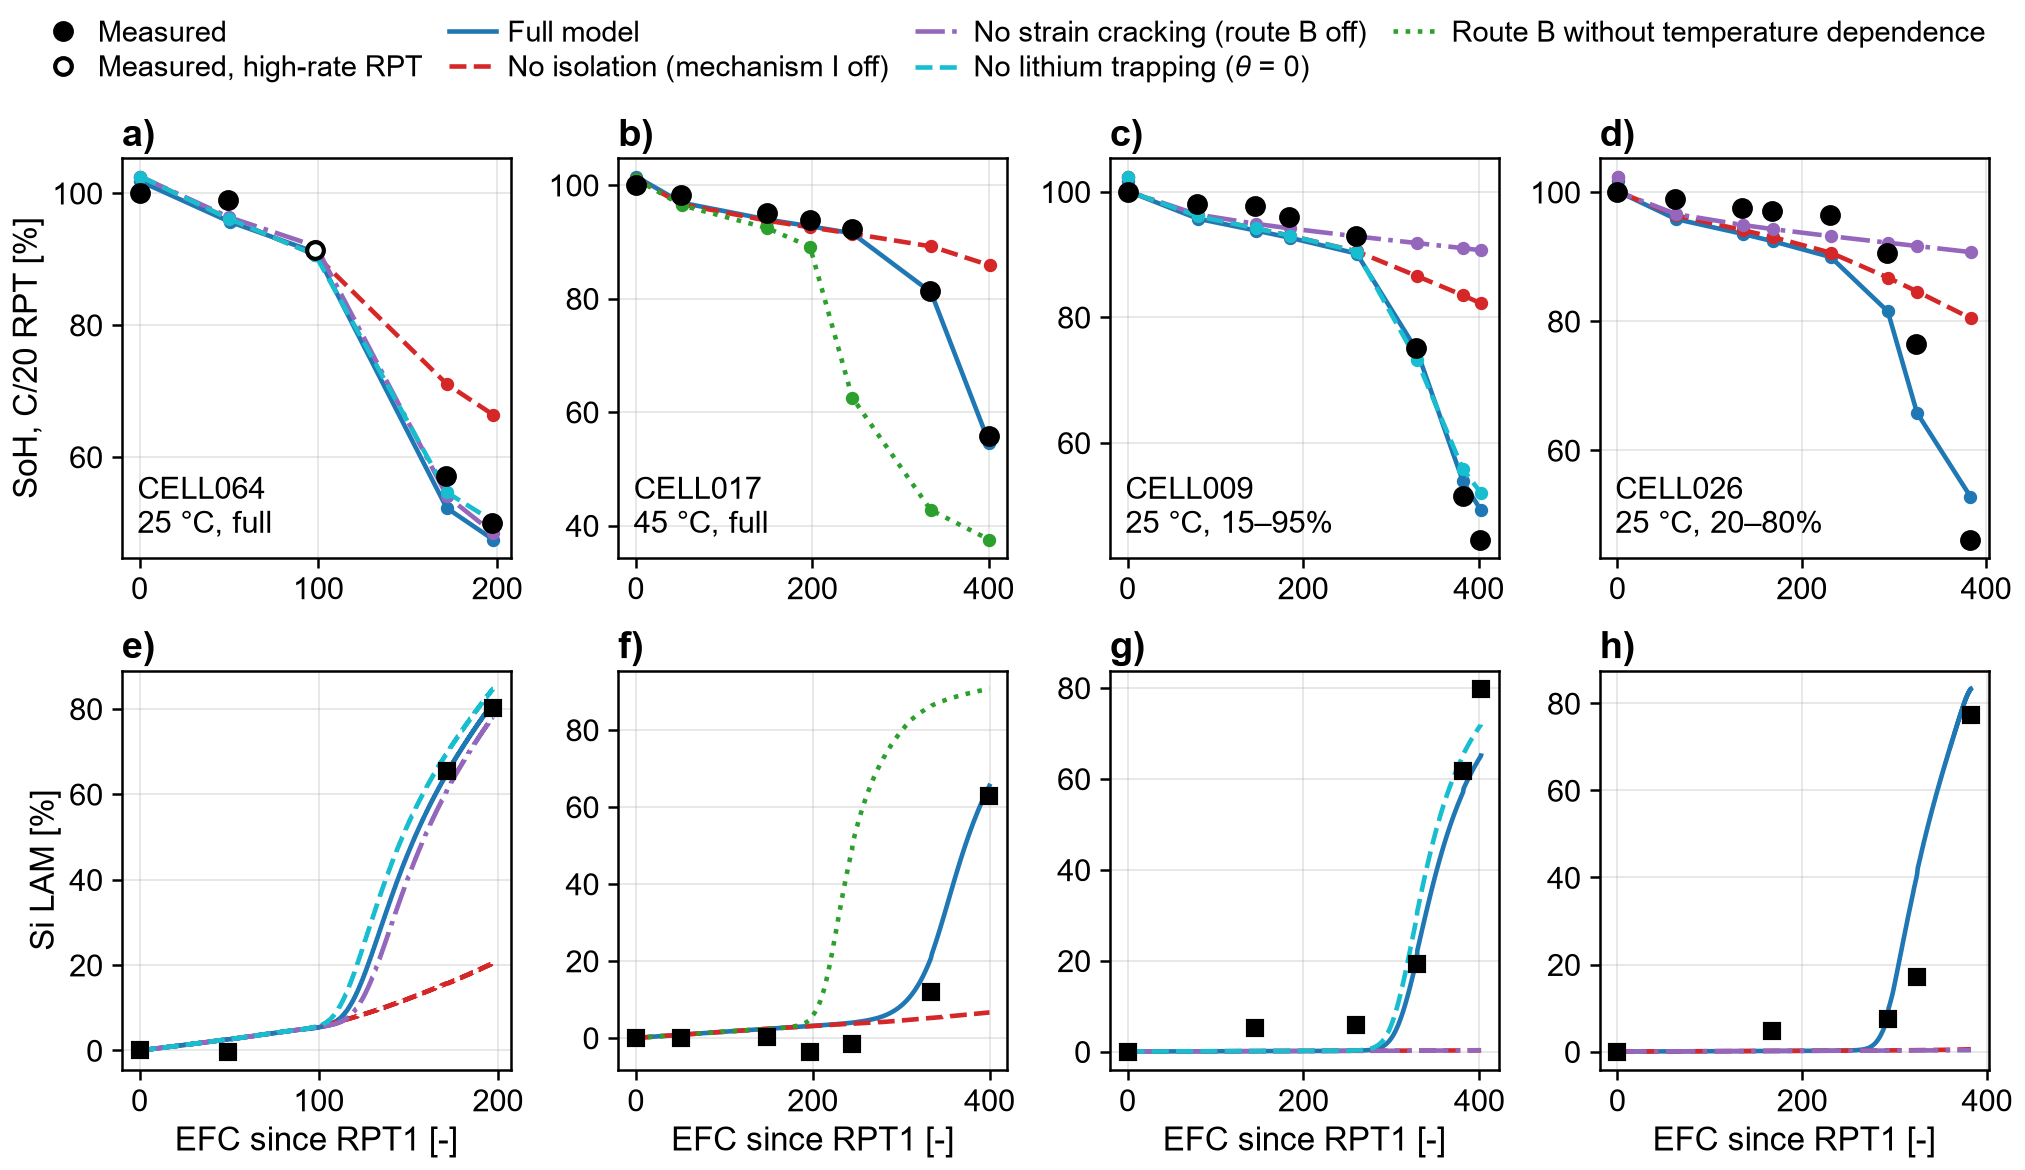
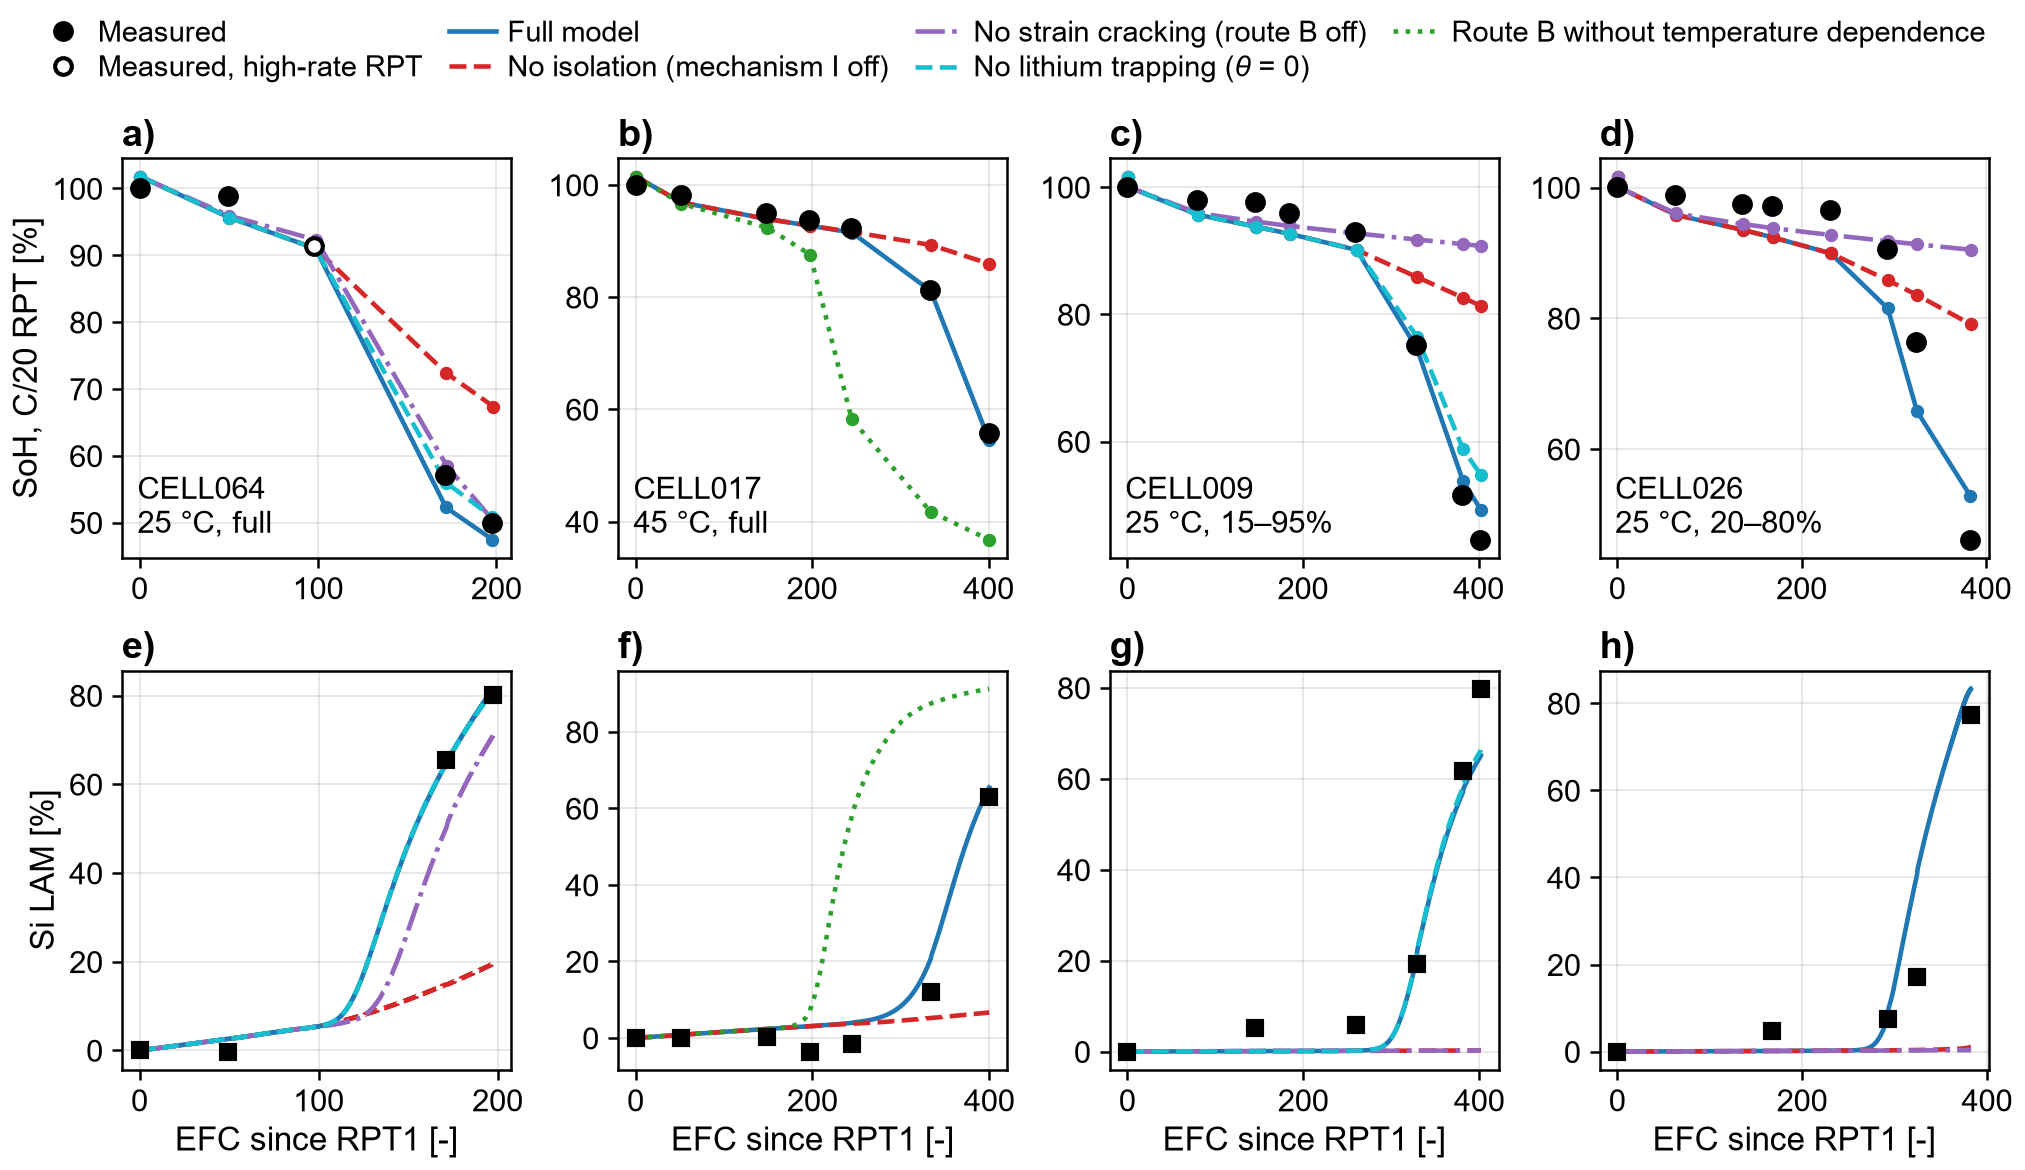
paper/tools: make_paper_figures uses the final-set ablations (outputs_ablations_v7); ablation figure regenerated

diff --git a/paper/tools/make_paper_figures.py b/paper/tools/make_paper_figures.py
@@ -1,6 +1,6 @@
 """Write every paper figure, at its printed JES size, to paper/paper_pics.
 
-    python paper/tools/make_paper_figures.py [--results paper/results] [--ablations paper/outputs_ablations]
+    python paper/tools/make_paper_figures.py [--results paper/results] [--ablations paper/outputs_ablations_v7]
 
 Figures with DMA data (overall summaries, data overview, ablations) are written once per DMA, each from a
 copy of the data directory with that DMA's LAM/LLI tables (dma/tables.py), to paper_pics/<folder>:
@@ -43,7 +43,7 @@ def main():
     ap = argparse.ArgumentParser()
     ap.add_argument("--data", default=os.path.join(HERE, "data"))
     ap.add_argument("--results", default=os.path.join(HERE, "results"))
-    ap.add_argument("--ablations", default=os.path.join(HERE, "outputs_ablations"))
+    ap.add_argument("--ablations", default=os.path.join(HERE, "outputs_ablations_v7"))
     ap.add_argument("--out", default=os.path.join(HERE, "paper_pics"))
     ap.add_argument("--work", default=os.path.join(HERE, "outputs", "dma_data"))
     a = ap.parse_args()
